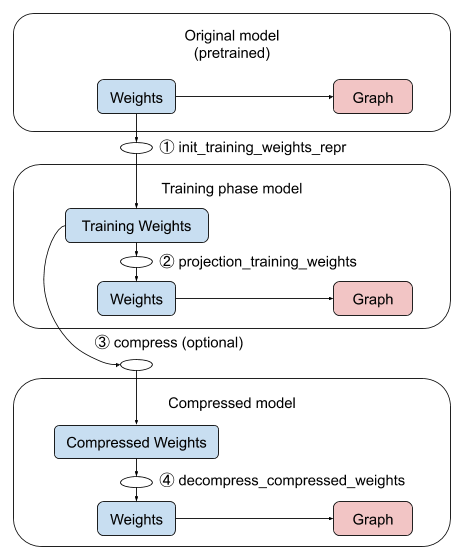
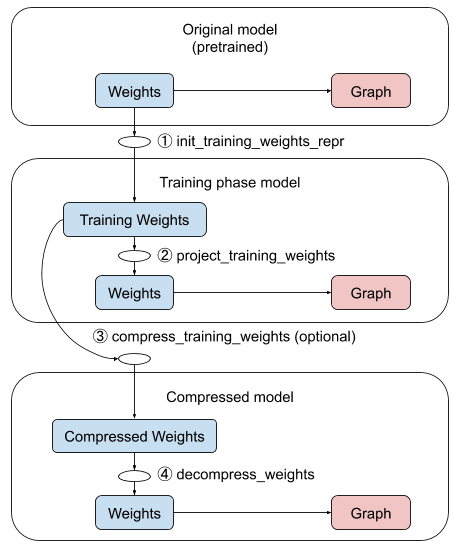
Update tfmot compression api RFC: change method naming.

diff --git a/rfcs/20201221-tfmot-compression-api.md b/rfcs/20201221-tfmot-compression-api.md
@@ -82,7 +82,7 @@ We provide the tutorial for [SVD](https://en.wikipedia.org/wiki/Singular_value_d
                     initializer=tf.keras.initializers.Constant(sv))
             ]
 
-          def fake_decompress(self, u: tf.Tensor, sv: tf.Tensor) -> tf.Tensor:
+          def project_training_weights(self, u: tf.Tensor, sv: tf.Tensor) -> tf.Tensor:
             return tf.matmul(u, sv)
 
           def get_compressible_weights(
@@ -160,9 +160,9 @@ This is an API for a layer weight based compression algorithm.
 
 First, we start from a pre-trained model which the model developer has. And then convert the pre-trained model to training phase model for compression fine-tuning training. During the convert to training phase model, We call `init_training_weights_repr` for each tensor that we want to compress which is specified from the `get_compressible_weights` method.
 
-During the training phase, `fake_decompress` method is called for each training step. After fine-tuning training for compression is finished, we convert the training phase model to a compressed model. We only call the `compress` function once for each compressible tensor for converting.
+During the training phase, `project_training_weights` method is called for each training step. After fine-tuning training for compression is finished, we convert the training phase model to a compressed model. We only call the `compress_training_weights` function once for each compressible tensor for converting.
 
-Compressed model contains the `decompress` function in the graph. It’s possible to call the `decompress` for each inference step. To improve performance, we’ll cache the decompressed one depending on flags if we have enough space.
+Compressed model contains the `decompress_weights` function in the graph. It’s possible to call the `decompress_weights` for each inference step. To improve performance, we’ll cache the decompressed one depending on flags if we have enough space.
 
 ```python
 class WeightCompressionAlgorithm(metaclass=abc.ABCMeta):
@@ -205,7 +205,7 @@ class WeightCompressionAlgorithm(metaclass=abc.ABCMeta):
     """
 
   @abc.abstractmethod
-  def fake_decompress(self, *training_weights: tf.Tensor) -> tf.Tensor:
+  def project_training_weights(self, *training_weights: tf.Tensor) -> tf.Tensor:
     """Define a piece of the forward pass during training, which operates on a single compressible weight.
     The default throws an error when training occurs.
 
@@ -218,7 +218,7 @@ class WeightCompressionAlgorithm(metaclass=abc.ABCMeta):
        tf.Tensor to set the compressible weight to.
     """
 
-  def update_training_weights(self, index, tensor: tf.Tensor):
+  def update_training_weight(self, index: integer, tensor: tf.Tensor):
     """Update a training weight on an index to a given tensor value.
 
     This method is for the case that training weight should update to specific
@@ -226,15 +226,15 @@ class WeightCompressionAlgorithm(metaclass=abc.ABCMeta):
     find the training weight.
 
     Args:
-      index: integer indicate index of training weight to update.
+      index: integer indicates index of training weight to update.
       tensor: tf.Tensor to update specific training weight.
     """
 
   @abc.abstractmethod
-  def compress(self, *training_weights: tf.Tensor) -> List[tf.Tensor]:
+  def compress_training_weights(self, *training_weights: tf.Tensor) -> List[tf.Tensor]:
     """Define the operations to compress a single weight’s training form after training.
 
-    'Compress' can refer to making the weight more amenable to compression
+    'compress_training_weights' can refer to making the weight more amenable to compression
     or actually compress the weight.
 
     The default is an identity.
@@ -249,7 +249,7 @@ class WeightCompressionAlgorithm(metaclass=abc.ABCMeta):
     """
 
   @abc.abstractmethod
-  def decompress(self, *compressed_weights: tf.Tensor) -> tf.Tensor:
+  def decompress_weights(self, *compressed_weights: tf.Tensor) -> tf.Tensor:
     """Define the operations to decompress a single weight’s compressed form during inference.
 
     The default is an identity.
@@ -395,38 +395,38 @@ Now we'll explain when each method is called and how many that method called for
 
     `init_training_weights_repr` is called when we initialize the cloned training model from the pre-trained model. `optimize_training` method basically clones the model to create a training model for compression, wrapping compressible layers by the training wrapper to create training weights. The number of the method calling is (# of compressible weights).
 
-1. `fake_decompress`
+1. `project_training_weights`
     <p align="center">
-      <img src=20201221-tfmot-compression-api/fake_decompress.png />
+      <img src=20201221-tfmot-compression-api/project_training_weights.png />
     </p>
 
     ```python
     training_model.fit(x_train, y_train, epochs=2)
     ```
 
-    `fake_decompress` is called when the training model for the compression algorithm is training. Usually this method function is a part of the training model. It recovers the original weight from the training weights, and should be differentiable. This method enables you to use the original graph to compute the model output, but train the training weights of the training model. For each training step, this method is called for every compressible weight. The number of the method calling is (# of compressible weights) * (training steps).
+    `project_training_weights` is called when the training model for the compression algorithm is training. Usually this method function is a part of the training model. It recovers the original weight from the training weights, and should be differentiable. This method enables you to use the original graph to compute the model output, but train the training weights of the training model. For each training step, this method is called for every compressible weight. The number of the method calling is (# of compressible weights) * (training steps).
 
-1. `compress`
+1. `compress_training_weights`
     <p align="center">
-      <img src=20201221-tfmot-compression-api/compress.png />
+      <img src=20201221-tfmot-compression-api/compress_training_weights.png />
     </p>
 
     ```python
     compressed_model = optimize_inference(training_model, params)
     ```
 
-    `compress` is called when we convert the training model to the compressed model. The number of the method calling is (# of compressible weights).
+    `compress_training_weights` is called when we convert the training model to the compressed model. The number of the method calling is (# of compressible weights).
 
-1. `decompress`
+1. `decompress_weights`
     <p align="center">
-      <img src=20201221-tfmot-compression-api/decompress.png />
+      <img src=20201221-tfmot-compression-api/decompress_weights.png />
     </p>
 
     ```python
     compressed_model.evaluate(x_test, y_test, verbose=2)
     ```
 
-    `decompress` is called when we do inference on a compressed model. Usually this method function is a part of a compressed model. This method decompresses the weight that can be used on the original graph for each compressible weight. Basically the number of this method called is (# of compressible weights) * (# of inference). To improve performance, the output value of this method can be cached.
+    `decompress_weights` is called when we do inference on a compressed model. Usually this method function is a part of a compressed model. This method decompresses the weight that can be used on the original graph for each compressible weight. Basically the number of this method called is (# of compressible weights) * (# of inference). To improve performance, the output value of this method can be cached.
 
 ## Questions and Discussion Topics
 
@@ -442,4 +442,5 @@ Note that every trainable variable that they want to train should be in training
 ### Error message & Debugging tools.
 
 It's not easy to find the bug there. Usually we get tensorflow bug messages with huge stack traces. We have to provide some bug messages for this API layer.
+
 
